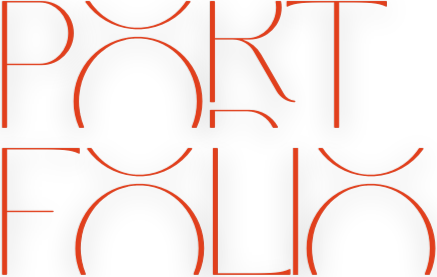
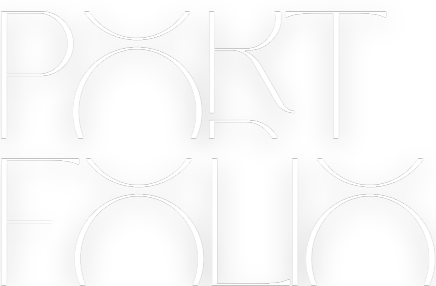
styling changes

diff --git a/styles/about.css b/styles/about.css
@@ -35,7 +35,7 @@ body{
         background-color: #3a4738;
         background-repeat:repeat;
         width: 100%;
-        background-image:url("https://github.com/nanaabaackah/portfolio.io/blob/main/imgs/0101.png?raw=true");
+        background-image:url("https://github.com/nanaabaackah/portfolio.io/blob/main/imgs/0101-b.png?raw=true");
     }
 
     

diff --git a/styles/master.css b/styles/master.css
@@ -262,7 +262,7 @@ body{
 @media screen and (max-width: 550px) {
     
     .home {
-        background-color: var(--dark);
+        background-color: #3a4738;
         background-image:url(/imgs/0101.png);
         background-repeat: repeat;
         width: 450px;
